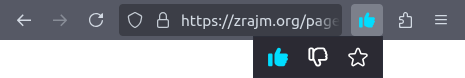
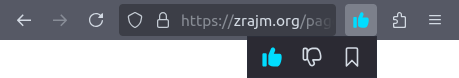
Updated README

diff --git a/README.md b/README.md
@@ -2,22 +2,24 @@ Pagethumb
 =========
 Download: [`pagethumb-latest.xpi`][latest]
 
-This is a Firefox extension for bookmarking & rating web pages. Whenever you
-visit a web page you’ll immediately see whether you have previously liked or
-disliked the page.—It’s a personal like/dislike feature for the web at large.
-Your likes are not shared with anybody (except your own future self).
+This is a Firefox bookmark extension, that instead of just showing you the
+default ⭐, lets you indicate whether you like a page or not using 👍 or 👎.
+The next time you visit your rating is the first thing you'll see.—This
+extension does not share your bookmarks or upload them anywhere. If your
+bookmarks are setup to sync between devices, then your ratings are also synced.
 
 <toc heading=Contents class=toc>
 
 
 What Does It Look Like?
 -----------------------
-Here’s the extension at work.
+Here’s what the extension looks like in its various states:
 
+![disabled]\
 ![default]\
-![like]\
-![dislike]\
-![bookmark]\
+![thumbsup]\
+![thumbsdown]\
+![bookmarked]\
 ![menu]
 
 
@@ -27,7 +29,6 @@ I find Firefox’s default appearance too cluttered, and creating this extension
 is part of trying to fix that for myself. Even better is using Pagethumb *plus*
 removing the bookmark (⭐) and reader buttons from Firefox’s URL field.—If you
 also want this, do the following:
-
 
 **Enable user customizations**
 
@@ -56,9 +57,12 @@ that as an exercise for the reader.
 A Confusion of Bookmarks
 ------------------------
 Internally Pagethumb stores likes/dislikes as bookmarks (meaning that they’ll
-automatically sync between your devices when your bookmarks do). A liked page
-is saved in the bookmark folder 👍, and a disliked page in 👎. If a page has
-been bookmarked outside of these folders it’ll show up as ⭐.
+automatically sync between your devices if you have set up your bookmarks to do
+so). Liked pages are saved in the bookmark folder 👍, and disliked pages in 👎.
+And finally, if a page has been bookmarked outside of these folders it’ll show
+up as <img src="firefox-extension/pic/bookmark-active.svg" style="height:1rem"
+alt=bookmark>. Saving a page in this category will create (or move) the
+relevant bookmark into the ⭐ folder.
 
 
 ### If There Are Multiple Bookmarks
@@ -86,11 +90,13 @@ if you do go to that page and give it a thumbs up Pagethumb will save a new
 bookmark https://www.youtube.com/watch?v=yuXVu595DBI (without the `t`
 parameter).
 
-[bookmark]: pic/bookmark.png
+[bookmark]: firefox-extension/pic/bookmark.svg
+[bookmarked]: pic/bookmarked.png
 [default]: pic/default.png
-[dislike]: pic/dislike.png
+[disabled]: pic/disabled.png
 [latest]: releases/pagethumb-latest.xpi
-[like]: pic/like.png
 [menu]: pic/menu.png
+[thumbsdown]: pic/thumbsdown.png
+[thumbsup]: pic/thumbsup.png
 
 <!--EOF-->
